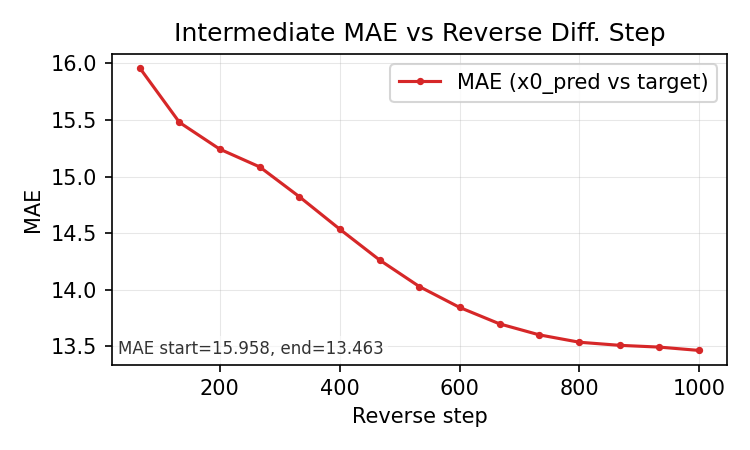
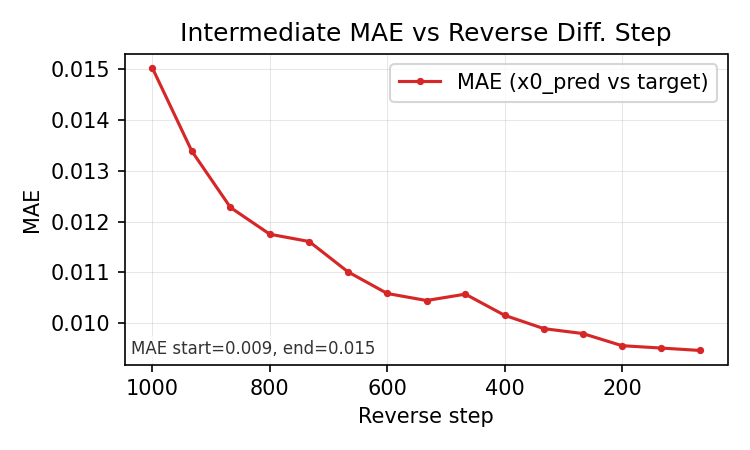
95perc impl. and training, readme update

diff --git a/train.py b/train.py
@@ -263,14 +263,14 @@ def main(
             logger,
             [model_config_path, data_config_path, training_config_path],
         )
-    # Save only top-k checkpoints by monitored validation metric.
+    # Save the best checkpoint by monitored validation metric and always keep the latest checkpoint.
     checkpoint_callback = ModelCheckpoint(
         dirpath=str(run_dir),
         filename="best",
         monitor=str(trainer_cfg.get("ckpt_monitor", "val/loss")),
         mode="min",
-        save_top_k=2,
-        save_last=False,
+        save_top_k=1,
+        save_last=True,
     )
     lr_monitor_callback = LearningRateMonitor(
         logging_interval=str(trainer_cfg.get("lr_logging_interval", "epoch"))

diff --git a/utils/validation_denoise.py b/utils/validation_denoise.py
@@ -254,7 +254,7 @@ def log_wandb_denoise_timestep_grid(
             ax_mae.text(
                 0.01,
                 0.02,
-                f"MAE start={mae_vals[0]:.3f}, end={mae_vals[-1]:.3f}",
+                f"MAE start={mae_vals[-1]:.3f}, end={mae_vals[0]:.3f}",
                 transform=ax_mae.transAxes,
                 fontsize=8,
                 va="bottom",

diff --git a/README.md b/README.md
@@ -145,7 +145,7 @@ python3 train.py \
 
 ### What happens during training
 - A timestamped run folder is created under `logs/`.
-- The exact config files used for the run are copied into that folder, Callback saves top k=2 checkpoints.
+- The exact config files used for the run are copied into that folder, and checkpointing keeps `best.ckpt` (by `trainer.ckpt_monitor`) plus `last.ckpt`.
 - Model type is `cond_px_dif` (`PixelDiffusionConditional`).
 - Training resumes automatically when `model.resume_checkpoint` is set to a valid `.ckpt` path in `configs/model_config.yaml`.
 
@@ -232,9 +232,12 @@ The same checkpoint applied to 75 percent occusion indicates it learned the dist
 EO-conditioned multiband setup (`x`: 3-band corrupted input (depth levels 3,4,5), `y`: 3-band clean target, plus EO condition (surface obs.)), evaluated at 95% corruption. Good results, but likely over-reliance on EO condition.
 ![img](assets/95per_obstr_with_condition.png)
 
-### Experiment 3 (75% corruption, 50% dropout)
+### Experiment 3 (High corruption and EO dropout)
 Test setting with 75% corruption and 50% EO condition dropout, keeping the same checkpoint for comparison. Quality obviosuly suffers with EO condition removed, but reconstructs distribution well. Note: EO dropout is random, so model has seen same location with EO condition previously. Unlikely that model momorizes this though with only 57M parameters and 110k samples.
 ![img](assets/75perc_50drop.png)
+
+After 100 training epochs on the previous setting, I switched to 95% percent corruption and still 50% dropout. Samples where EO is available are well and faithfully reconstructed. Samples without the EO conditioning generate a very plausible reconstruction, but it is visible that some currents/patterns look correct but are not 100% correlated with the ground truth. This might be a point where we can draw a very realistic reconstruction from the distribution, but we do not have enough information to accurately reconstruct this exact scenario.  
+![img](assets/95perc_50drop.png)
 
 ### Sampling Process
 The sampling process is currently guided by a cosine schedule. Plotting the intermediate steps shows a lot of noise initially, until the very end of the schedule. In addition to qualitative intermediates, we now log:
@@ -364,7 +367,7 @@ These are the model/training behaviors in this repo and where they are wired in 
 - **Checkpointing + resume**  
   Configure in:
   - `configs/model_config.yaml`: `model.resume_checkpoint` (false/null or a `.ckpt` path)
-  - `configs/training_config.yaml`: `trainer.ckpt_monitor` (best-checkpoint metric)
+  - `configs/training_config.yaml`: `trainer.ckpt_monitor` (metric used for `best.ckpt`; `last.ckpt` is always saved)
 
 - **W&B logging (metrics/images/watch)**  
   Configure in `configs/training_config.yaml`:
